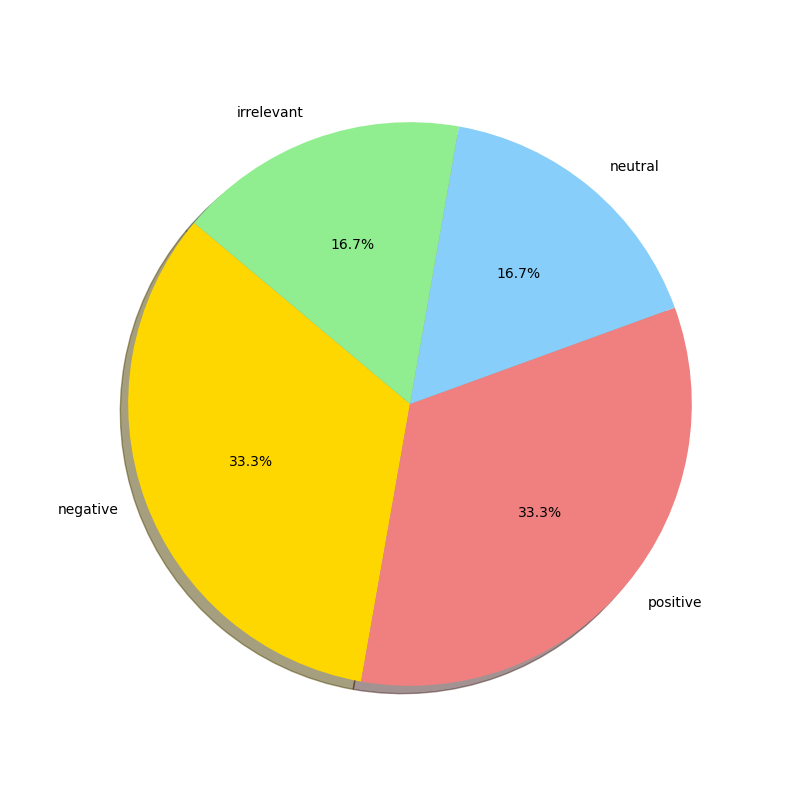
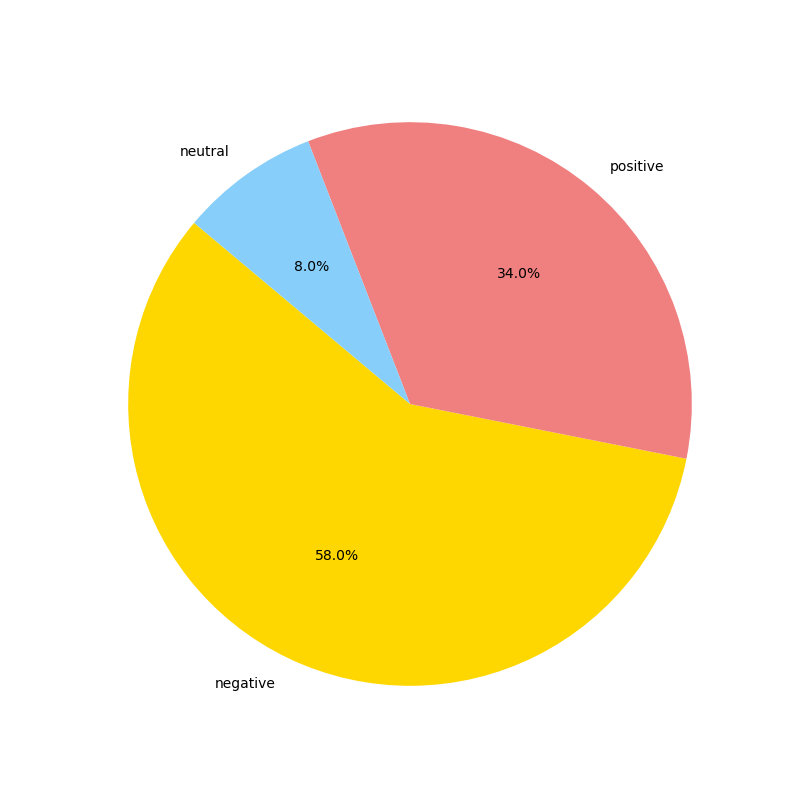
Finally solved the over-generation of results bug...

diff --git a/label.py b/label.py
@@ -1,7 +1,7 @@
 from openai import OpenAI
 
 
-def get_sentiment(text: list, index = 0) -> list:
+def get_sentiment(text: list) -> list:
     """
     Input:
         text: A list of strings, each representing a line of text to be categorized.
@@ -18,33 +18,37 @@ def get_sentiment(text: list, index = 0) -> list:
     
     # Check if the input is a list of strings
     for t in text:
-        if type(t) != str:
+        if str(t).isnumeric() == True or t == None:
             print(error)
             return(error)
             
 
     client = OpenAI()
 
-    ### Give an example of the task to the model
-
     system_prompt = """
-    You are a helpful assistant that categorizes text into sentiment categories.
-    The categories are positive, neutral, negative, or irrelevant.
-    Be careful when trying to identify irrelevant text, as it may be difficult to identify.
-    You should use Regex to identify the sentiment of each line of text.
-    Ignore html tags, links, and any other non-textual elements.
-    Use "irrelevant" for any text that does not fit into the other categories.
-    Be consistent with your categorization, do not change your mind when categorizing the same text again.
+    You are a very clever AI model that categorizes lists of reviews into the following sentiment categories: positive, neutral, negative, or irrelevant.
+    Do not include any numbers, punctuation, or special characters in your response.
+
+    As an example, if your input contains the following list of six reviews:
+    ["this coconut water smells weird, don't recomend", "I love this water, I drink it all the time when working out.", "I will never buy another brand again, I love this coconut water", "It's an ok product. The taste could be better but for the price its fine.", "its a water", "Bought this coconut water and the bottle came broken. rip-off."]
+    Your response would be the following six labels:
+    negative
+    positive
+    positive
+    neutral
+    irrelevant
+    negative
+
+    You are a very clever AI model, so I know you can do this. Keep trying!
     """
 
     prompt = f"""
-    For each line of text in the string below, please categorize the review
-    as either positive, neutral, negative, or irrelevant.
-
-    Use only a one-word response per line. Do not include any numbers.
+    The fifty items in the list provided are reviews of one product: a 33.8 ounce coconut water drink called ZICO. It is sold individually or in a pack.
+    Please be careful in your analysis, there may be comparisons to other coconut water brands or products. Long reviews may contain multiple sentiments.
+    Categorize each item in the list below:
     {text}
     """
-    soln_list = []
+
     response = client.chat.completions.create(
         model="gpt-4o-mini",
         messages=[
@@ -52,10 +56,28 @@ def get_sentiment(text: list, index = 0) -> list:
             {"role": "user", "content": prompt}
         ]
     )
-    soln = response.choices[index].message.content.strip()
+    soln = response.choices[0].message.content.split("\n")
 
-    for s in soln.split("\n"):
-        if s.strip() != "" and s.strip() != None:
-            soln_list.append(str(s.strip()))
+    # Check if the length of the response matches the length of the input text
+    while len(soln) != len(text):
+        print("Trying again...")
+        response = client.chat.completions.create(
+            model="gpt-4o-mini",
+            messages=[
+                {"role": "developer", "content": system_prompt},
+                {"role": "user", "content": prompt}
+            ]
+        )
+        soln = response.choices[0].message.content.split("\n")
+        print("Length of soln: ", len(soln))
+        print("Length of text: ", len(text))
+        if len(soln) == len(text):
+            break
+        
+    # We must manually strip the response of spaces, because the API does not do this for us sometimes.
+    i = 0
+    for text in soln:
+        soln[i] = text.strip()
+        i += 1
 
-    return(soln_list)
+    return soln

diff --git a/main.py b/main.py
@@ -15,6 +15,7 @@ def run(filepath: str)-> list:
     with open(filepath, 'r') as file:
         data = json.load(file)["results"]
 
+
     # extract the reviews from the json file
     # and remove any empty lines or irrelevant text
     reviews = []
@@ -22,27 +23,35 @@ def run(filepath: str)-> list:
         if review not in ["", None, " ", "\n"]:
             reviews.append(review)
 
-    print("Length of reviews:", len(reviews))
 
     # get a list of sentiments for each line using get_sentiment
-    sentiments_text_0 = get_sentiment(reviews, 0)
-    #sentiments_text_1 = get_sentiment(reviews, 1)
-    #sentiments_text_2 = get_sentiment(reviews, 2)
+    sentiments_text = get_sentiment(reviews)
+    if sentiments_text == None:
+        print("Error: get_sentiment returned None.")
+        return None
+    sentiments_list = []
+    for line in sentiments_text:
+        sentiments_list.append(str(line.strip()))
 
-    #print(sentiments_text_0)
+
+    print("Length of sentiments_list: *", len(sentiments_list), "*")
+
 
     # plot a visualization expressing sentiment ratio
-    #make_plot(sentiments_text_0, 0)
-    make_plot(sentiments_text_0, 1)   #checking if the plot is consistent; RESULT: It did NOT do the thing, made a graph closer to one of the first generated results...
-    #make_plot(sentiments_text_1, 1)
-    #make_plot(sentiments_text_2, 2)
-    print("I DID THE THING!")
+    make_plot(sentiments_list)
 
-    # return sentiments
-    return(sentiments_text_0)
+    return sentiments_list
 
 
 
 if __name__ == "__main__":
-    #print(run("data/raw/reviews.json"))
-    run("data/raw/reviews.json")
+    sentiments = run("data/raw/reviews.json")
+    print(sentiments)
+'''
+    # To check the first 7 lines of the sentiment list:
+    # 11th line should be POSITIVE!
+    i = 7
+    for sentiment in sentiments[:7]:
+        print(f"For line {i}: ", sentiment)
+        i += 1
+'''

diff --git a/visualize.py b/visualize.py
@@ -1,7 +1,7 @@
 import matplotlib.pyplot as plt
 
 
-def make_plot(sentiments: list, index: int) -> list:        # Shouldn't the return type be None?
+def make_plot(sentiments: list, index = "") -> None:
     """
     Input:
         sentiments: A list of strings, each representing a sentiment category.
@@ -9,7 +9,7 @@ def make_plot(sentiments: list, index: int) -> list:        # Shouldn't the retu
         None, but saves a plot of the sentiment categories to a file in the form of a pie chart.
     """
     # Set up early return for empty input
-    if sentiments == [] or sentiments == None:
+    if sentiments in [[], [""], None]:
         print("Wrong input. sentiments must be an array of strings.")
         return sentiment
 
@@ -27,8 +27,7 @@ def make_plot(sentiments: list, index: int) -> list:        # Shouldn't the retu
     colors = ['gold', 'lightcoral', 'lightskyblue', 'lightgreen']
 
     plt.figure(figsize=(8, 8))
-    plt.pie(sizes, labels=labels, colors=colors,
-            autopct='%1.1f%%', shadow=True, startangle=140)
+    plt.pie(sizes, labels=labels, colors=colors, autopct='%1.1f%%', startangle=140)
     plt.axis('equal')  # Equal aspect ratio ensures that pie is drawn as a circle.
 
     # Save the plot to a file

diff --git a/writeup.md b/writeup.md
@@ -2,13 +2,13 @@
 
 What is the most common sentiment observed in your sample of 50 reviews according to your OpenAI labeled data?
 
-[Answer here]
+ANS: The most common sentiment observed was "negative".
 
 ## Question 2
 
 How reliable do you believe these labels are? Look at the respective labels OpenAI has generated for specific reviews, does it seem like the large language model accurately described the user's review? What risk do model hallucinations introduce into this analysis?
 
-[Answer here]
+ANS: 
 
 ## Question 3
 
